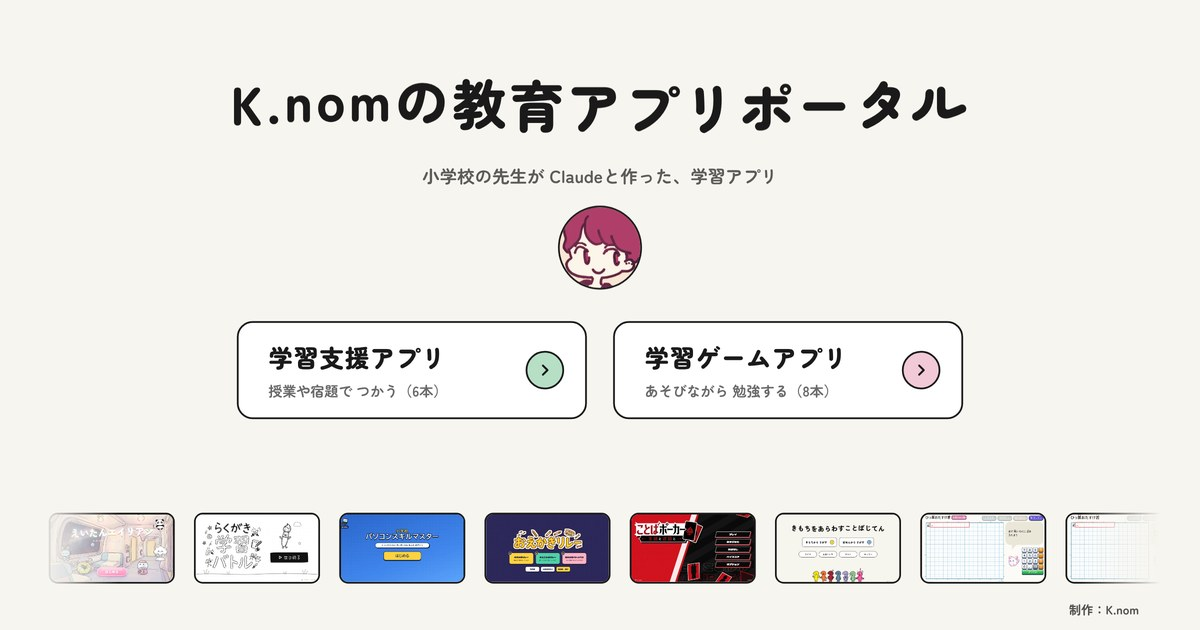
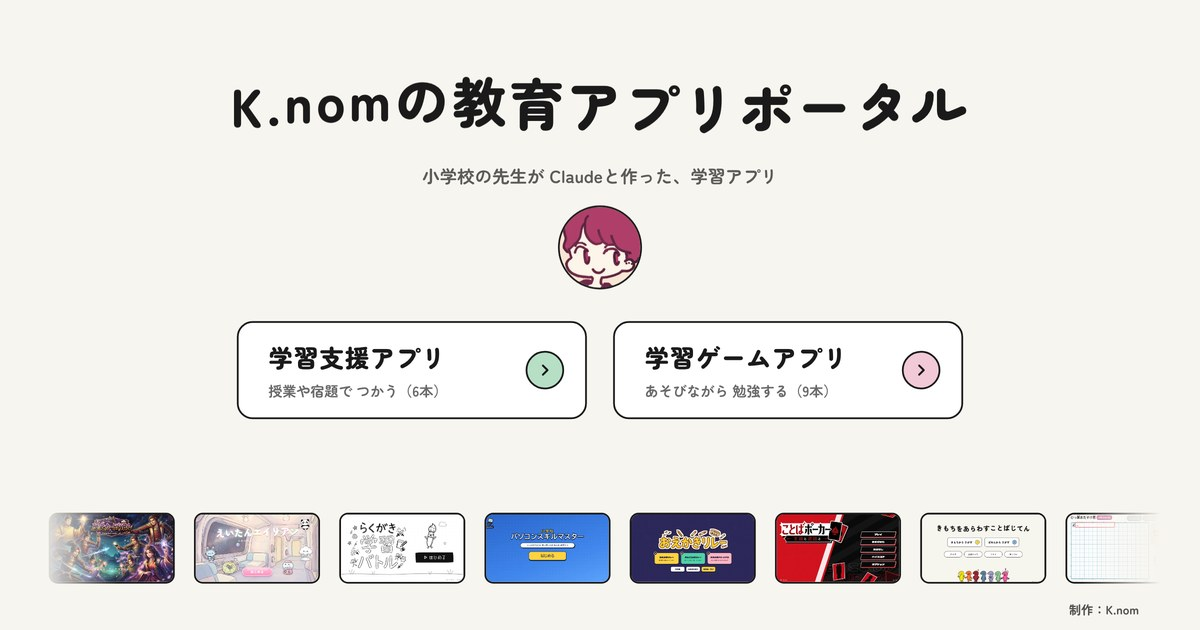
ポータル：新作「歴史カードバトル」を追加（社会・6年、HTMLダウンロード）、紹介画像の見出しツール
Claude-Session: https://claude.ai/code/session_01Bf9eT8YQwGPd9qsaezmuUu

diff --git a/index.html b/index.html
@@ -7,7 +7,7 @@
 <meta name="description" content="小学校の先生がClaudeといっしょに作った学習アプリ・学習ゲームの入口。制作：K.nom">
 <meta property="og:title" content="K.nomの教育アプリポータル">
 <meta property="og:description" content="小学校の先生がClaudeといっしょに作った学習アプリ・学習ゲーム（制作：K.nom）">
-<meta property="og:image" content="https://nochi-jpg.github.io/manabi-sns/img/ogp.jpg?v=20261118">
+<meta property="og:image" content="https://nochi-jpg.github.io/manabi-sns/img/ogp.jpg?v=20261123">
 <meta name="twitter:card" content="summary_large_image">
 <link rel="icon" href="img/face.webp">
 <link rel="preconnect" href="https://fonts.googleapis.com">
@@ -295,14 +295,17 @@ const ITEMS = [
     desc: 'らくがきが動いて、友だちのらくがきとたたかう？！そんな夢をかなえる学習アプリ。1〜6年・5教科、全6500問収録。1日6分で、学習のふりかえりをしよう。' },
   { id: 'eitan', kind: 'tool', name: 'えいたんエイリアン', c: '#E3C8EE', n: 6, g: [3, 4, 5, 6], s: ['英語'],
     gh: 'https://nochi-jpg.github.io/eitan/', cv: 'https://daizou.my.canva.site/eitan',
-    desc: 'かわいいえいりあんと、小学校の英単語660語をおぼえよう！めくっておぼえて、4択のしけん、スペルを書くにんていまで。えねるぎーをためて、がちゃで集めよう。' }
+    desc: 'かわいいえいりあんと、小学校の英単語660語をおぼえよう！めくっておぼえて、4択のしけん、スペルを書くにんていまで。えねるぎーをためて、がちゃで集めよう。' },
+  { id: 'rekishi', kind: 'game', name: '歴史カードバトル', c: '#E2CC9C', n: 8, g: [6], s: ['社会'],
+    gh: 'https://nochi-jpg.github.io/rekishi-card/', cv: null, dl: 'https://nochi-jpg.github.io/rekishi-card/dist/rekishi-card.html', dlName: 'rekishi-card.html',
+    desc: '歴史の人物と出来事のカードでたたかう、3つの場所の陣取りバトル。カードの効果と史実コンボで、人物と出来事のつながりが自然に覚えられる。' }
 ];
 // リリース順（新しい順）。新作はいちばん前に足す
-const REL = ['eitan', 'rakugaki', 'pcmaster', 'oekaki', 'poker', 'kimochi', 'shousu', 'hissan', 'keisan', 'life', 'historia', 'stadium', 'battle', 'dragon'];
+const REL = ['rekishi', 'eitan', 'rakugaki', 'pcmaster', 'oekaki', 'poker', 'kimochi', 'shousu', 'hissan', 'keisan', 'life', 'historia', 'stadium', 'battle', 'dragon'];
 ITEMS.sort((a, b) => REL.indexOf(a.id) - REL.indexOf(b.id));
 const IM = {}; ITEMS.forEach(x => IM[x.id] = x);
 // 色（カラー案2「やわらか」で決定）
-const COL = { tool: '#B7DFC6', game: '#F2C9D6', apps: { kimochi: '#F6E192', keisan: '#F7CBA0', shousu: '#C3CEF0', hissan: '#AEDAD6', life: '#B6CBE3', historia: '#F1C2B2', stadium: '#D2C9F1', battle: '#F2C3D3', dragon: '#B7DFC6', poker: '#EFA9A6', oekaki: '#AEB3E0', pcmaster: '#9EC3F0', rakugaki: '#D6D3CA', eitan: '#E3C8EE' } };
+const COL = { tool: '#B7DFC6', game: '#F2C9D6', apps: { kimochi: '#F6E192', keisan: '#F7CBA0', shousu: '#C3CEF0', hissan: '#AEDAD6', life: '#B6CBE3', historia: '#F1C2B2', stadium: '#D2C9F1', battle: '#F2C3D3', dragon: '#B7DFC6', poker: '#EFA9A6', oekaki: '#AEB3E0', pcmaster: '#9EC3F0', rakugaki: '#D6D3CA', eitan: '#E3C8EE', rekishi: '#E2CC9C' } };
 GROUP.tool.bg = COL.tool; GROUP.game.bg = COL.game; ITEMS.forEach(x => x.c = COL.apps[x.id]);
 const SUBJ = ['国語', '算数', '理科', '社会', '英語', 'キャリア', '学活', '総合'];
 const img = (id, i) => `img/apps/${id}/${i}.webp`;

diff --git a/tools/intro_caption.py b/tools/intro_caption.py
@@ -1,0 +1,36 @@
+#!/usr/bin/env python3
+"""紹介画像に、黄色い帯の見出しを入れる（先生の手作り紹介画像と同じ見た目）。
+
+使い方:
+  python3 tools/intro_caption.py <元のスクショ> <出力.png> <x> <y> <文字の大きさ> <1行目> [2行目 ...]
+  例: python3 tools/intro_caption.py shop.png 6.png 520 4 44 "コインをためて、新しいデッキを手に入れよう！"
+- 画像は 1920×1080 にそろえてから書く。帯は1行ずつ（黄 #FFEF5C・黒文字・Zen Maru Gothic Black）
+- 帯が画像からはみ出すときは止まる。ボタンや大事な文字にかぶらない場所をえらぶ
+- フォントは環境変数 FONT か、../fonts/ZenMaruGothic-Black.ttf
+"""
+import os, sys
+from PIL import Image, ImageDraw, ImageFont
+
+FONT = os.environ.get("FONT", os.path.join(os.path.dirname(__file__), "..", "..", "fonts", "ZenMaruGothic-Black.ttf"))
+
+
+def caption(src, out, x, y, size, lines):
+    im = Image.open(src).convert("RGB").resize((1920, 1080), Image.LANCZOS)
+    d = ImageDraw.Draw(im)
+    f = ImageFont.truetype(FONT, size)
+    pad, gap = 14, 10
+    for t in lines:
+        l, tp, r, b = d.textbbox((0, 0), t, font=f)
+        w, h = r - l, b - tp
+        if x + w + pad * 2 > 1920 or y + h + pad * 2 > 1080:
+            sys.exit(f"帯が画像からはみ出す: {t}")
+        d.rectangle([x, y, x + w + pad * 2, y + h + pad * 2], fill="#FFEF5C")
+        d.text((x + pad - l, y + pad - tp), t, font=f, fill="#1A1A1A")
+        y += h + pad * 2 + gap
+    im.save(out)
+
+
+if __name__ == "__main__":
+    if len(sys.argv) < 7:
+        sys.exit(__doc__)
+    caption(sys.argv[1], sys.argv[2], int(sys.argv[3]), int(sys.argv[4]), int(sys.argv[5]), sys.argv[6:])

diff --git a/HANDOFF.md b/HANDOFF.md
@@ -52,6 +52,7 @@
   - 11/14 新作「らくがき学習バトル」（rakugaki・ゲーム・5教科1〜6年・グレー）を追加。リンク用画像（img/ogp.jpg）は新作を足したらトップを撮り直す（流れを止めて新作が左はし、1200×630。og:image の ?v= も変える）
   - 11/18 新作「えいたんエイリアン」（eitan・学習支援・英語3〜6年・パステルむらさき）を追加。紹介文はPCで2行までに収める（3行だと下がきゅうくつ）。説明欄の高さを130pxに
   - 11/23 Canvaの10MBに入り切らない作品（まなびヒストリア・まなびライフ）は、2つ目のボタンを「HTMLをダウンロード」に（ITEMS の dl＝各リポジトリの1ファイル版のURL、dlName＝保存名。英字にする：日本語名だとブラウザによって「download」になる）。同じ nochi-jpg.github.io の中なのでそのまま保存される。Canva版ポータルではダウンロードが動かないので「HTMLは GitHub版から」と暗く表示
+  - 11/23 新作「歴史カードバトル」（rekishi・ゲーム・社会6年・金）を追加。紹介画像は Claude がゲームを動かして撮影し、黄色い帯の見出しを入れて作った（tools/intro_caption.py）。1ファイル版は rekishi-card/dist/rekishi-card.html（約20MB）なので「HTMLをダウンロード」
   - Canva版のURL（11/2）：えいたんエイリアン eitan／らくがき学習バトル rakugaki1／パソコンスキルマスター pc-master2／おえかきリレー oekaki-relay／ことばポーカー kotoba-poker／計算 otasukeisan／まなバト manabato3／まなドラ manadora／ことばじてん kimochi-jiten／ひっ算 otasuke／小数 otasukeshosu（すべて https://daizou.my.canva.site/〜）
 - **作者名（10/31〜）**：SNS・アプリ・note すべて「K.nom」に統一（10/30 の「K.nomura」から変更）。まなび堂名義はやめた。ゲーム本体の中のクレジット（まなび堂・K.nomura）は各ゲームのチャットで直す（SNS側では ゲームのコードを かえない）
 
